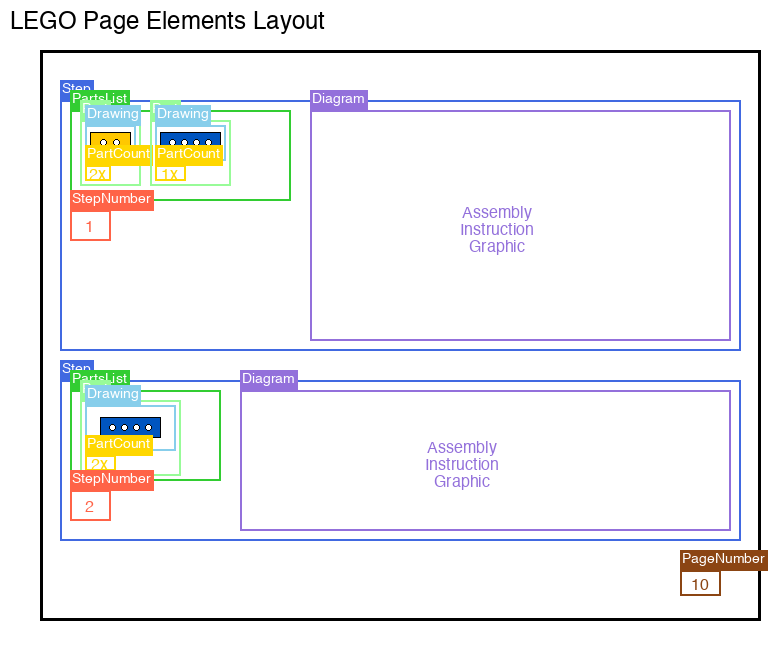
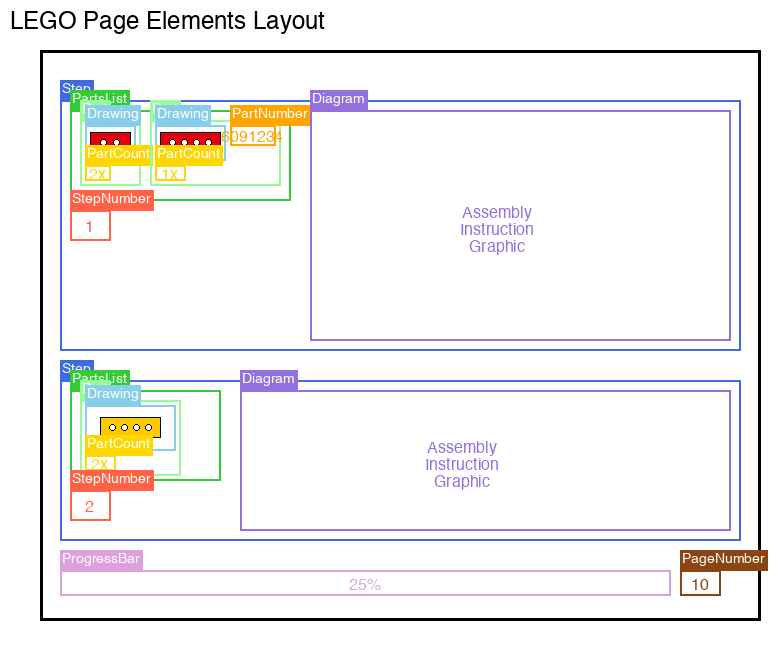
feat(pdf_extract): Update lego_page_layout tool
- Add support for ProgressBar and PartNumber elements.
- Remove NewBag and BagNumber from the example.
- Adjust ProgressBar to be left-aligned with steps and have a margin.
- Regenerate the layout diagram.

diff --git a/src/build_a_long/pdf_extract/tools/lego_page_layout.py b/src/build_a_long/pdf_extract/tools/lego_page_layout.py
@@ -21,7 +21,9 @@ from build_a_long.pdf_extract.extractor.lego_page_elements import (
     PageNumber,
     Part,
     PartCount,
+    PartNumber,
     PartsList,
+    ProgressBar,
     Step,
     StepNumber,
 )
@@ -38,6 +40,8 @@ COLORS = {
     "StepNumber": "#FF6347",  # Tomato red
     "PageNumber": "#8B4513",  # Saddle brown
     "Diagram": "#9370DB",  # Medium purple
+    "PartNumber": "#FFA500",  # Orange
+    "ProgressBar": "#DDA0DD",  # Plum
 }
 
 
@@ -148,6 +152,10 @@ def draw_page(page: Page, output_path: str = "lego_page_layout.png") -> None:
     if page.page_number:
         draw_page_number(draw, page.page_number)
 
+    # Draw progress bar if present
+    if page.progress_bar:
+        draw_progress_bar(draw, page.progress_bar)
+
     # Draw all steps
     for step in page.steps:
         draw_step(draw, step)
@@ -162,6 +170,17 @@ def draw_page_number(draw: ImageDraw.ImageDraw, page_number: PageNumber) -> None
     bbox = page_number.bbox.to_tuple()
     draw_bbox_with_label(
         draw, bbox, "PageNumber", COLORS["PageNumber"], str(page_number.value)
+    )
+
+
+def draw_progress_bar(draw: ImageDraw.ImageDraw, progress_bar: ProgressBar) -> None:
+    """Draw a ProgressBar element."""
+    bbox = progress_bar.bbox.to_tuple()
+    progress_text = (
+        f"{progress_bar.progress:.0%}" if progress_bar.progress is not None else ""
+    )
+    draw_bbox_with_label(
+        draw, bbox, "ProgressBar", COLORS["ProgressBar"], progress_text
     )
 
 
@@ -229,12 +248,24 @@ def draw_part(draw: ImageDraw.ImageDraw, part: Part) -> None:
     # Draw part count
     draw_part_count(draw, part.count)
 
+    # Draw part number if present
+    if part.number:
+        draw_part_number(draw, part.number)
+
 
 def draw_part_count(draw: ImageDraw.ImageDraw, part_count: PartCount) -> None:
     """Draw a PartCount element."""
     bbox = part_count.bbox.to_tuple()
     draw_bbox_with_label(
         draw, bbox, "PartCount", COLORS["PartCount"], f"{part_count.count}x"
+    )
+
+
+def draw_part_number(draw: ImageDraw.ImageDraw, part_number: PartNumber) -> None:
+    """Draw a PartNumber element."""
+    bbox = part_number.bbox.to_tuple()
+    draw_bbox_with_label(
+        draw, bbox, "PartNumber", COLORS["PartNumber"], str(part_number.element_id)
     )
 
 
@@ -274,6 +305,10 @@ def create_sample_page() -> Page:
             value=10,
             bbox=BBox(680, 570, 720, 595),
         ),
+        progress_bar=ProgressBar(
+            bbox=BBox(60, 570, 670, 595),
+            progress=0.25,
+        ),
         steps=[
             # Step 1
             Step(
@@ -299,7 +334,7 @@ def create_sample_page() -> Page:
                         ),
                         # Part 2
                         Part(
-                            bbox=BBox(150, 120, 230, 185),
+                            bbox=BBox(150, 120, 280, 185),
                             count=PartCount(
                                 count=1,
                                 bbox=BBox(155, 165, 185, 180),
@@ -307,6 +342,10 @@ def create_sample_page() -> Page:
                             diagram=Drawing(
                                 id=2,
                                 bbox=BBox(155, 125, 225, 160),
+                            ),
+                            number=PartNumber(
+                                element_id="6091234",
+                                bbox=BBox(230, 125, 275, 145),
                             ),
                         ),
                     ],
